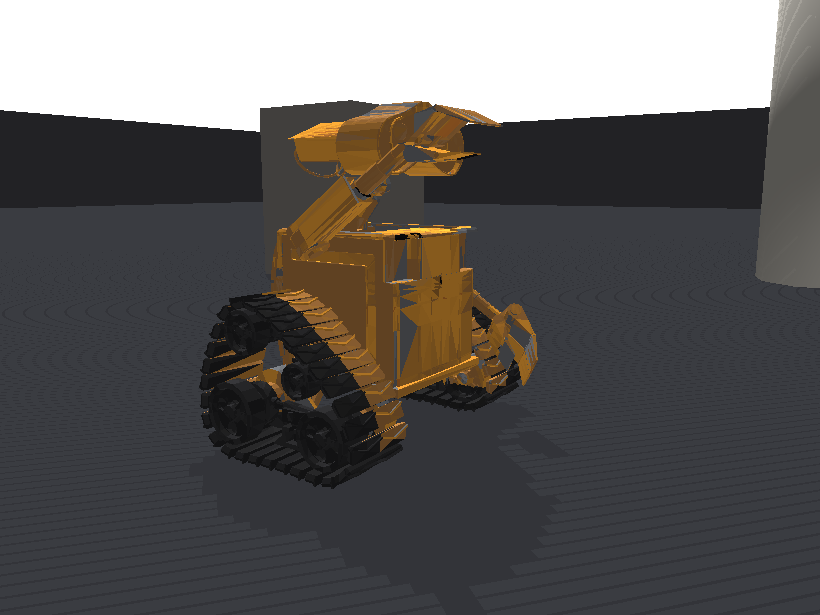
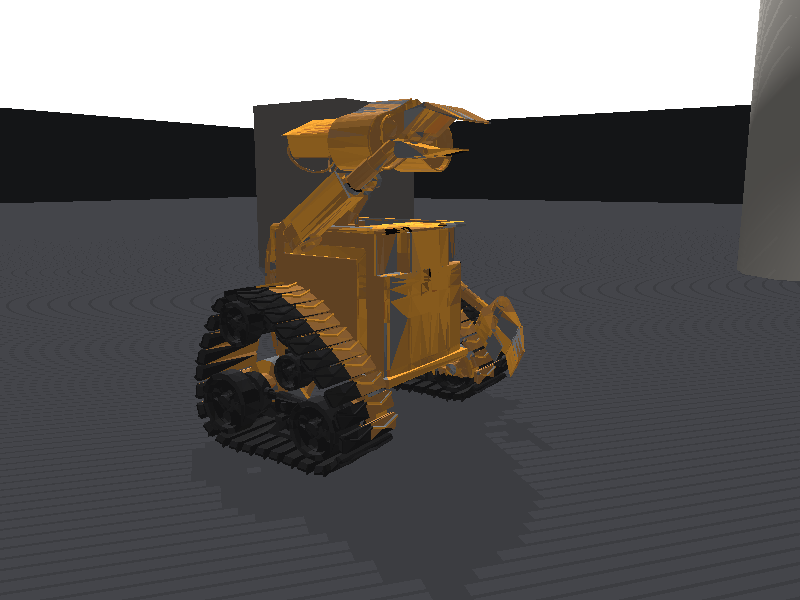
Aspecto: cuadricula sin moire, suelo separado del fondo y solidos con contraste
La captura de la escena mostraba tres problemas. El suelo tenia un moire que
se movia al orbitar: la cuadricula iba a 1 m y en OpenGL2 `addUserDebugLine`
dibuja una linea de un pixel sin antialias, asi que 49 lineas casi paralelas a
la camara se peleaban por los mismos pixeles. Ahora va a 2 m (25 por eje), mas
gruesa y a 12 mm del piso, por debajo del abanico bajo.

El fondo estaba a 0.105 y el suelo a 0.175: el horizonte desaparecia y el
viewport se leia como una mancha. El suelo sube a 0.200 con algo mas de
especular, para que las patas del robot se apoyen, y el fondo baja a 0.085. Las
paredes del borde pasan a 0.150: se leen como limite sin competir con nada.

Los solidos eran cinco tonos de beige claro y en pantalla salian todos blancos.
La paleta baja un escalon (yeso 0.69, piedra 0.545, hormigon 0.395, oxido 0.735
y grafito 0.255) y suma un acero azulado para romper la escala calida.

`tools_vista_previa.py` gana `--gui`, que intenta renderizar con OpenGL2 de
verdad en vez de TINY_RENDERER. No sirve en esta build: `getCameraImage` con
ER_BULLET_HARDWARE_OPENGL devuelve un buffer vacio y las cuatro capturas salen
negras de 1.4 KB. Queda documentado en el codigo para no repetir la prueba; las
capturas siguen siendo de TINY_RENDERER, con sus sombras con bandas.

Entrenamiento, dos arreglos medidos:

- `VecNormalize.load` hacia el paso tres veces mas lento (2048 pasos: 55 s con
  un VecNormalize nuevo, 80 s trasladando `ret_rms` a mano, mas de 180 s tras
[…]

diff --git a/Simulador Wall-E/train_walle_v5.py b/Simulador Wall-E/train_walle_v5.py
@@ -108,11 +108,16 @@ def main() -> None:
     # PyBullet. OJO: no tocar OMP_NUM_THREADS — pybullet pide numThreads=4 en
     # el barrido de rayos y si OpenMP queda con 1 hilo el worker muere.
     #
-    # Con 2 hilos el backward del LSTM se comía 27 s por iteración. Medido en
-    # este equipo (Ryzen 5 3400G, 8 lógicos): 6 hilos bajan la iteración de
-    # 2048 pasos de ~35 s a ~22 s. Se deja aire para los dos entornos.
+    # Dos hilos, no seis. Con `n_steps` de 1024 y dos o cuatro entornos el
+    # batch que llega al LSTM es de 2 a 4 muestras: repartir eso entre 6 hilos
+    # cuesta mas en sincronizar que en multiplicar, y ademas revienta. Medido
+    # en este equipo (Ryzen 5 3400G, 8 logicos): con 6 hilos el proceso murio
+    # con `0xC0000005` dentro de `torch.nn.modules.rnn.forward` dos veces, sin
+    # traceback de Python. Con 2 hilos cierra la misma iteracion en 55-80 s sin
+    # caerse. La velocidad que se pierde en el backward se recupera en no
+    # tener que relanzar desde el ultimo checkpoint.
     _logical = os.cpu_count() or 4
-    torch.set_num_threads(max(2, min(6, _logical - 2)))
+    torch.set_num_threads(2)
     print(f"[TRAIN_V5] Hilos de torch: {torch.get_num_threads()} de {_logical} lógicos")
 
     parser = argparse.ArgumentParser(
@@ -299,9 +304,37 @@ def main() -> None:
             if candidatos_pkl:
                 pkl = candidatos_pkl[-1]
         if os.path.exists(pkl):
-            env = VecNormalize.load(pkl, env.venv)
-            env.training = True
-            print(f"[TRAIN_V5] Estadísticas de recompensa recuperadas: {pkl}")
+            # `VecNormalize.load` devuelve un envoltorio que hace el paso tres
+            # veces mas lento: medido con este entorno, 2048 pasos tardan 55 s
+            # con un VecNormalize nuevo, 80 s trasladando `ret_rms` a mano y
+            # mas de 180 s despues de `load`. Con `load` el primer bloque de
+            # metricas no llegaba a escribirse nunca y parecia que el
+            # entrenamiento estaba colgado.
+            #
+            # Lo unico que hace falta recuperar es `ret_rms`, la media movil
+            # del retorno, que es lo que calibra el critico: con norm_obs=False
+            # las estadisticas de observacion ni se usan. Se traslada a mano.
+            try:
+                import pickle
+
+                with open(pkl, "rb") as archivo:
+                    viejo = pickle.load(archivo)
+                ret_rms = getattr(viejo, "ret_rms", None)
+                if ret_rms is None and isinstance(viejo, dict):
+                    ret_rms = viejo.get("ret_rms")
+                if ret_rms is not None:
+                    env.ret_rms = ret_rms
+                    print(
+                        f"[TRAIN_V5] Estadísticas de recompensa recuperadas: "
+                        f"{pkl} (media {ret_rms.mean:.2f})"
+                    )
+                else:
+                    print(
+                        "[TRAIN_V5] AVISO: el .pkl no trae ret_rms. Las "
+                        "estadísticas arrancan de cero."
+                    )
+            except Exception as error:
+                print(f"[TRAIN_V5] AVISO: no pude leer {pkl}: {error}")
         else:
             print(
                 "[TRAIN_V5] AVISO: no hay .pkl de VecNormalize para este "

diff --git a/Simulador Wall-E/tools_vista_previa.py b/Simulador Wall-E/tools_vista_previa.py
@@ -175,6 +175,7 @@ def capturar(
     pitch: float,
     ancho: int,
     alto: int,
+    renderer: int = p.ER_TINY_RENDERER,
 ) -> None:
     view = p.computeViewMatrixFromYawPitchRoll(
         cameraTargetPosition=list(objetivo),
@@ -190,20 +191,28 @@ def capturar(
         nearVal=0.05,
         farVal=60.0,
     )
+    # Con el renderer por hardware (cliente GUI) las luces de `getCameraImage`
+    # se ignoran: manda la luz del visor y el resultado es lo que ve el usuario.
+    # Con TINY_RENDERER hay que pasarlas, o la imagen sale negra.
+    extra = {}
+    if renderer == p.ER_TINY_RENDERER:
+        extra = dict(
+            lightDirection=[-0.45, 0.35, 0.82],
+            lightColor=[1.0, 1.0, 1.0],
+            lightDistance=12.0,
+            lightAmbientCoeff=0.55,
+            lightDiffuseCoeff=0.75,
+            lightSpecularCoeff=0.25,
+            shadow=1,
+        )
     _w, _h, rgba, _depth, _seg = p.getCameraImage(
         width=ancho,
         height=alto,
         viewMatrix=view,
         projectionMatrix=proj,
-        renderer=p.ER_TINY_RENDERER,
-        lightDirection=[-0.45, 0.35, 0.82],
-        lightColor=[1.0, 1.0, 1.0],
-        lightDistance=12.0,
-        lightAmbientCoeff=0.55,
-        lightDiffuseCoeff=0.75,
-        lightSpecularCoeff=0.25,
-        shadow=1,
+        renderer=renderer,
         flags=p.ER_NO_SEGMENTATION_MASK,
+        **extra,
     )
     guardar_png(ruta, rgba, ancho, alto)
 
@@ -260,6 +269,15 @@ def main() -> int:
         "--out", default=str(SCRIPT_DIR / "capturas"), help="Carpeta de salida"
     )
     parser.add_argument("--size", type=int, default=800, help="Ancho en pixeles")
+    parser.add_argument(
+        "--gui",
+        action="store_true",
+        help=(
+            "Renderiza con OpenGL2 de verdad (abre la ventana de PyBullet). "
+            "Sin esta bandera usa TINY_RENDERER: mas rapido, pero las sombras "
+            "salen con bandas y el especular no es el de la GUI."
+        ),
+    )
     args = parser.parse_args()
 
     ancho = int(args.size)
@@ -269,7 +287,17 @@ def main() -> int:
     piezas = cargar_piezas()
     print(f"[VISTA] {len(piezas)} piezas de color")
 
-    p.connect(p.DIRECT)
+    if args.gui:
+        # El renderer por hardware necesita el cliente GUI: en DIRECT el FBO no
+        # existe y `getCameraImage` devuelve una imagen negra. Se pide OpenGL2
+        # porque es el que funciona en esta maquina; OpenGL3 se cuelga al
+        # cargar el plano.
+        p.connect(p.GUI, options="--opengl2 --width=800 --height=600")
+        renderer = p.ER_BULLET_HARDWARE_OPENGL
+        print("[VISTA] renderer: OpenGL2 (ventana)")
+    else:
+        p.connect(p.DIRECT)
+        renderer = p.ER_TINY_RENDERER
     p.setAdditionalSearchPath(pybullet_data.getDataPath())
     p.setGravity(0.0, 0.0, -9.81)
     p.configureDebugVisualizer(p.COV_ENABLE_GUI, 0)
@@ -289,6 +317,7 @@ def main() -> int:
             pitch,
             ancho,
             alto,
+            renderer,
         )
 
     p.disconnect()

diff --git a/Simulador Wall-E/walle_look.py b/Simulador Wall-E/walle_look.py
@@ -109,24 +109,38 @@ def body_palette(
 # --------------------------------------------------------------------------- #
 # Estetica Isaac Sim: fondo casi negro, suelo grafito y geometria neutra.
 # El contraste lo dan los materiales, no los colores fuertes.
-SKY_RGB = (0.105, 0.108, 0.122)
-GROUND_RGBA = (0.175, 0.178, 0.195, 1.0)
-GROUND_SPECULAR = (0.045, 0.045, 0.055)
-GRID_MINOR_RGB = (0.255, 0.260, 0.280)
-GRID_MAJOR_RGB = (0.395, 0.400, 0.425)
-WALL_RGBA = (0.245, 0.248, 0.268, 1.0)
-WALL_SPECULAR = (0.060, 0.060, 0.070)
+#
+# El fondo tiene que quedar POR DEBAJO del suelo o el horizonte desaparece y
+# el viewport se lee como una mancha. Con el suelo en 0.20 y el fondo en 0.085
+# la linea donde termina la arena se ve sin necesidad de paredes claras.
+SKY_RGB = (0.085, 0.088, 0.100)
+GROUND_RGBA = (0.200, 0.204, 0.222, 1.0)
+# Un especular algo mas alto que el difuso hace que el piso devuelva un brillo
+# tenue y las patas del robot se apoyen: sin el, el suelo es una lamina plana.
+GROUND_SPECULAR = (0.085, 0.085, 0.100)
+# La cuadricula va un escalon por encima del suelo, no dos: si brilla mas que
+# los solidos, el piso se come la escena.
+GRID_MINOR_RGB = (0.268, 0.272, 0.295)
+GRID_MAJOR_RGB = (0.370, 0.376, 0.405)
+WALL_RGBA = (0.150, 0.153, 0.170, 1.0)
+WALL_SPECULAR = (0.070, 0.070, 0.082)
 # Borde de la arena: una franja mas clara que separa el piso de la nada.
-BORDER_RGBA = (0.320, 0.325, 0.350, 1.0)
+BORDER_RGBA = (0.395, 0.400, 0.430, 1.0)
 
 # Solidos de la escena. Familia calida-neutra para que el ambar del LiDAR
 # siga siendo el color mas caliente del viewport.
+#
+# Los tres primeros tonos son la escala de grises de un almacen: yeso, piedra
+# y hormigon. El cuarto es el unico calido y esta reservado para que un solido
+# se distinga de otro de un vistazo. El ultimo, grafito, se usa cuando el
+# cuerpo esta lejos del robot y conviene que se hunda en el fondo.
 SOLID_PALETTE = (
-    (0.760, 0.745, 0.710, 1.0),   # yeso claro
-    (0.615, 0.600, 0.575, 1.0),   # piedra
-    (0.470, 0.455, 0.440, 1.0),   # hormigon
-    (0.800, 0.630, 0.330, 1.0),   # oxido claro, el unico calido
-    (0.330, 0.320, 0.315, 1.0),   # grafito
+    (0.690, 0.676, 0.645, 1.0),   # yeso
+    (0.545, 0.532, 0.510, 1.0),   # piedra
+    (0.395, 0.388, 0.378, 1.0),   # hormigon
+    (0.735, 0.505, 0.235, 1.0),   # oxido, el unico calido
+    (0.255, 0.252, 0.258, 1.0),   # grafito
+    (0.470, 0.505, 0.545, 1.0),   # acero azulado, para romper la escala calida
 )
 SOLID_SPECULAR = (0.110, 0.105, 0.095)
 

diff --git a/Simulador Wall-E/interactive_walle.py b/Simulador Wall-E/interactive_walle.py
@@ -2990,21 +2990,29 @@ def build_scene(env: WallEEnv) -> None:
     )
     p.changeDynamics(env.plane, -1, lateralFriction=1.0)
 
-    # Cuadricula de 1 m; cada 5 m una linea algo mas marcada. Se dibuja a
-    # 6 mm del piso para que no compita con el abanico LiDAR, que va a 3 cm.
-    for index in range(-arena, arena + 1):
-        major = index % 5 == 0
+    # Cuadricula de 2 m; cada 10 m una linea mas marcada.
+    #
+    # Estaba a 1 m y el resultado era moire: en OpenGL2 `addUserDebugLine`
+    # dibuja una linea de un pixel, sin antialias, y con 49 lineas por eje
+    # casi paralelas a la camara el piso se llenaba de bandas que se mueven al
+    # orbitar. Con paso 2 m son 25 por eje y desaparece. El ancho sube porque
+    # una linea de 1 px a 4 m de distancia se pierde entre los pixeles.
+    #
+    # Va a 12 mm del piso: por debajo del abanico bajo (6 cm) y lo bastante
+    # lejos del suelo para que el z-buffer no la haga parpadear.
+    for index in range(-arena, arena + 1, 2):
+        major = index % 10 == 0
         color = GRID_COLOR_MAJOR if major else GRID_COLOR_MINOR
-        width = 1.3 if major else 0.9
+        width = 2.0 if major else 1.4
         p.addUserDebugLine(
-            [float(index), -float(arena), 0.006],
-            [float(index), float(arena), 0.006],
+            [float(index), -float(arena), 0.012],
+            [float(index), float(arena), 0.012],
             lineColorRGB=list(color),
             lineWidth=width,
         )
         p.addUserDebugLine(
-            [-float(arena), float(index), 0.006],
-            [float(arena), float(index), 0.006],
+            [-float(arena), float(index), 0.012],
+            [float(arena), float(index), 0.012],
             lineColorRGB=list(color),
             lineWidth=width,
         )
